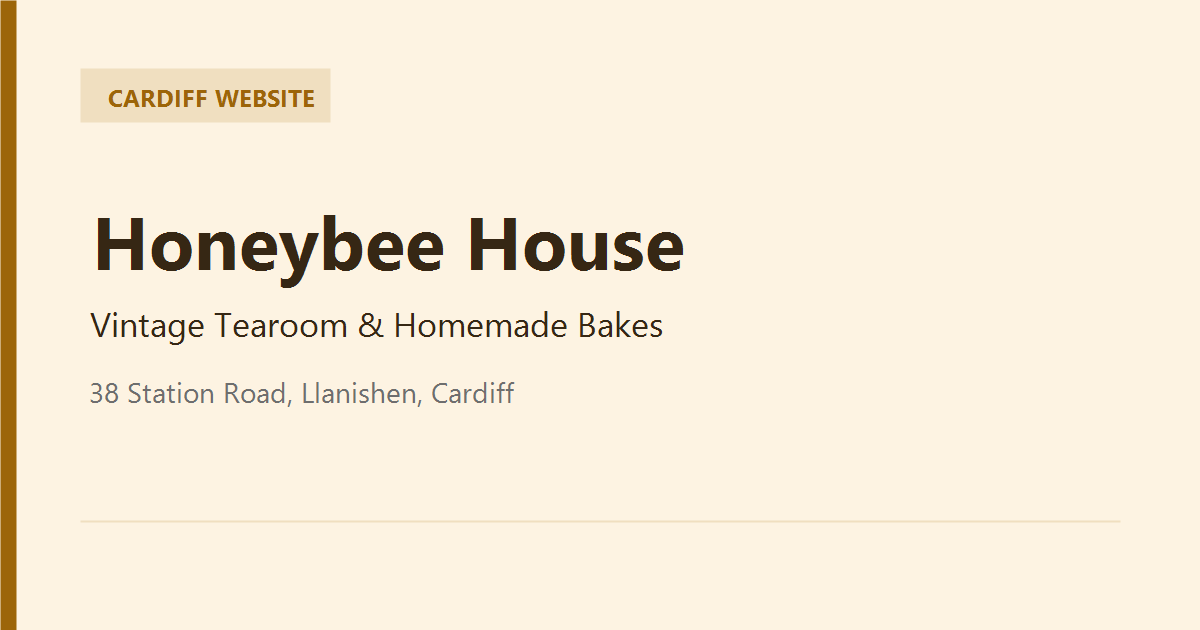
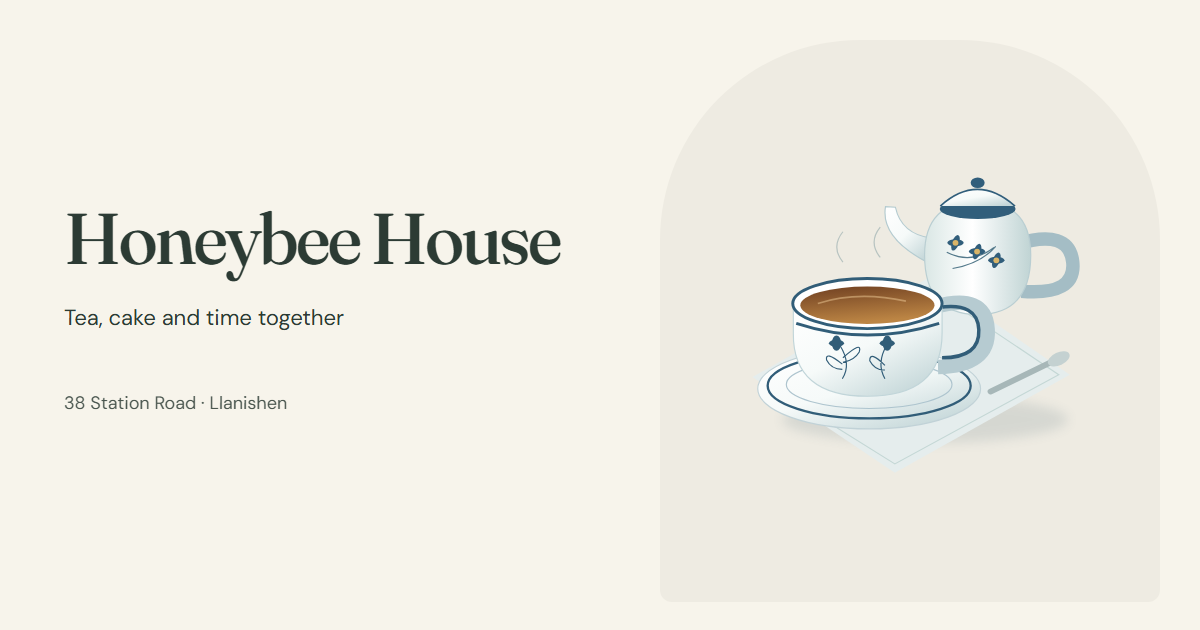
Refresh social preview and align brand palette
- Regenerate og-image.png at 1200x630 from updated share-source.html
- Replace stale card copy/palette with current verified site copy
- Align favicon, theme-color and manifest colours with the site
- Extend smoke test to 17 checks for preview/theme consistency
- Update README, DESIGN and QA with the refresh evidence

diff --git a/assets/share-source.html b/assets/share-source.html
@@ -1,1 +1,1 @@
-<!doctype html><html lang="en-GB"><head><meta charset="utf-8"><meta name="viewport" content="width=device-width,initial-scale=1"><meta name="robots" content="noindex,nofollow"><title>Honeybee House share image source</title><style>@font-face{font-family:DM;src:url(dm-sans.woff2);font-display:swap}@font-face{font-family:Fraunces;src:url(fraunces.woff2);font-display:swap}*{box-sizing:border-box}html,body{margin:0;width:1200px;height:630px;overflow:hidden}body{background:#f9fcf9;color:#294f54;font:400 22px/1.5 DM,system-ui,sans-serif;display:grid;grid-template-columns:660px 540px}.copy{padding:84px 64px;display:flex;flex-direction:column;justify-content:center}h1{font:500 72px/1.05 Fraunces,Georgia,serif;letter-spacing:-.04em;margin:0 0 24px}p{margin:0 0 24px}.address{font-size:18px;opacity:.85;margin-top:32px}aside{background:#eaf2f0;display:grid;place-items:center;padding:56px 40px;margin:40px 40px 40px 0;border-radius:200px 200px 12px 12px}svg{display:block;max-width:100%;width:auto;height:450px}</style></head><body><div class="copy"><h1>Honeybee House</h1><p>Tea, cake and time together</p><p class="address">38 Station Road · Llanishen</p></div><aside><svg viewBox="0 0 720 620" role="img" aria-label="Original illustration of a porcelain tea setting with a blue floral cup and teapot"><defs><linearGradient id="china" x1="0" y1="0" x2=".8" y2="1"><stop stop-color="#fff"/><stop offset=".52" stop-color="#f6faf9"/><stop offset="1" stop-color="#c3d6d8"/></linearGradient><linearGradient id="tea-surface" x2=".3" y2="1"><stop stop-color="#6f3f21"/><stop offset="1" stop-color="#bc8544"/></linearGradient><linearGradient id="pot-shade"><stop stop-color="#dae7e5"/><stop offset=".45" stop-color="#fff"/><stop offset="1" stop-color="#c0d4d4"/></linearGradient><filter id="soft-shadow" x="-40%" y="-60%" width="180%" height="240%"><feGaussianBlur stdDeviation="10"/></filter></defs><ellipse cx="386" cy="479" rx="245" ry="40" fill="#2b4e5e" opacity=".12" filter="url(#soft-shadow)"/><path d="M90 406 392 236l242 166-300 168z" fill="#e5eded"/><path d="M105 412 391 252l224 150-281 153z" stroke="#c4d7d5" stroke-width="2" fill="none"/><g transform="translate(365 56)"><path d="M178 122q90-27 96 31t-88 50" fill="none" stroke="#a4bdc5" stroke-width="23"/><path d="M26 154q-82-42-73-96l17 1q10 46 62 53" fill="url(#china)" stroke="#b4cbd0" stroke-width="2"/><path d="M20 141q0-92 91-92t91 92q0 102-91 102T20 141" fill="url(#pot-shade)" stroke="#b9ced2" stroke-width="2"/><ellipse cx="111" cy="62" rx="65" ry="17" fill="#315e7b"/><path d="M47 57q63-57 128 0" fill="url(#china)" stroke="#315e7b" stroke-width="3"/><ellipse cx="111" cy="17" rx="12" ry="9" fill="#315e7b"/><path d="M58 136q42 22 81-8m-71 36q48-8 74-38" stroke="#53798b" stroke-width="2" fill="none"/><g transform="translate(73 120)" fill="#315e7b"><ellipse rx="6" ry="14" transform="rotate(20)"/><ellipse rx="6" ry="14" transform="rotate(90)"/><circle r="5" fill="#d8b468"/></g><g transform="translate(110 135)" fill="#315e7b"><ellipse rx="6" ry="14" transform="rotate(20)"/><ellipse rx="6" ry="14" transform="rotate(90)"/><circle r="5" fill="#d8b468"/></g><g transform="translate(143 150)" fill="#315e7b"><ellipse rx="6" ry="14" transform="rotate(20)"/><ellipse rx="6" ry="14" transform="rotate(90)"/><circle r="5" fill="#d8b468"/></g></g><ellipse cx="290" cy="426" rx="191" ry="69" fill="url(#china)" stroke="#c1d2d7" stroke-width="2"/><ellipse cx="290" cy="421" rx="174" ry="56" fill="none" stroke="#315d78" stroke-width="4"/><ellipse cx="290" cy="419" rx="142" ry="41" fill="none" stroke="#adc4ce" stroke-width="2"/><path d="M402 286q87-25 91 38t-85 65" stroke="#b6cbd1" stroke-width="25" fill="none"/><path d="M409 287q67-10 69 38t-63 48" stroke="#315d78" stroke-width="6" fill="none"/><path d="M160 279h255v52q0 108-128 108T160 331z" fill="url(#china)" stroke="#c1d5d9" stroke-width="2"/><path d="M165 314q122 40 245 0" stroke="#315d78" stroke-width="5" fill="none"/><ellipse cx="287" cy="280" rx="128" ry="43" fill="#fff" stroke="#315d78" stroke-width="5"/><ellipse cx="287" cy="283" rx="115" ry="32" fill="url(#tea-surface)"/><path d="M202 280q68-22 151-4" stroke="#edc996" stroke-width="3" opacity=".5" fill="none"/><g stroke="#315d78" fill="none" stroke-width="2"><path d="M240 352q20 32 4 57m0-25q-30-24-27-7 8 16 27 16m1-20q34-30 28-10-8 14-28 18M320 352q-18 30-3 57m0-23q-26-26-26-8 9 17 26 16"/></g><g fill="#315d78"><ellipse cx="234" cy="348" rx="8" ry="13"/><ellipse cx="234" cy="348" rx="13" ry="6"/><ellipse cx="321" cy="348" rx="8" ry="13"/><ellipse cx="321" cy="348" rx="13" ry="6"/></g><path d="M498 431 609 377" stroke="#a7b7b8" stroke-width="10" stroke-linecap="round"/><ellipse cx="615" cy="375" rx="20" ry="11" fill="#c4d1d1" transform="rotate(-25 615 375)"/><path d="M245 209q-21-26 0-52m64 44q-21-26 0-52" stroke="#809b9f" stroke-width="2" opacity=".5" fill="none"/></svg></aside></body></html>
+<!doctype html><html lang="en-GB"><head><meta charset="utf-8"><meta name="viewport" content="width=device-width,initial-scale=1"><meta name="robots" content="noindex,nofollow"><title>Honeybee House share image source</title><style>@font-face{font-family:DM;src:url(dm-sans.woff2);font-display:swap}@font-face{font-family:Fraunces;src:url(fraunces.woff2);font-display:swap}*{box-sizing:border-box}html,body{margin:0;width:1200px;height:630px;overflow:hidden}body{background:#f7f4eb;color:#2c3b34;font:400 22px/1.5 DM,system-ui,sans-serif;display:grid;grid-template-columns:660px 540px}.copy{padding:84px 64px;display:flex;flex-direction:column;justify-content:center}h1{font:500 72px/1.05 Fraunces,Georgia,serif;letter-spacing:-.04em;margin:0 0 24px}p{margin:0 0 24px}.address{font-size:18px;opacity:.85;margin-top:32px}aside{background:#eeebe2;display:grid;place-items:center;padding:56px 40px;margin:40px 40px 40px 0;border-radius:200px 200px 12px 12px}svg{display:block;max-width:100%;width:auto;height:450px}</style></head><body><div class="copy"><h1>Honeybee House</h1><p>Tea, cake and time together</p><p class="address">38 Station Road · Llanishen</p></div><aside><svg viewBox="0 0 720 620" role="img" aria-label="Original illustration of a porcelain tea setting with a blue floral cup and teapot"><defs><linearGradient id="china" x1="0" y1="0" x2=".8" y2="1"><stop stop-color="#fff"/><stop offset=".52" stop-color="#f6faf9"/><stop offset="1" stop-color="#c3d6d8"/></linearGradient><linearGradient id="tea-surface" x2=".3" y2="1"><stop stop-color="#6f3f21"/><stop offset="1" stop-color="#bc8544"/></linearGradient><linearGradient id="pot-shade"><stop stop-color="#dae7e5"/><stop offset=".45" stop-color="#fff"/><stop offset="1" stop-color="#c0d4d4"/></linearGradient><filter id="soft-shadow" x="-40%" y="-60%" width="180%" height="240%"><feGaussianBlur stdDeviation="10"/></filter></defs><ellipse cx="386" cy="479" rx="245" ry="40" fill="#2b4e5e" opacity=".12" filter="url(#soft-shadow)"/><path d="M90 406 392 236l242 166-300 168z" fill="#e5eded"/><path d="M105 412 391 252l224 150-281 153z" stroke="#c4d7d5" stroke-width="2" fill="none"/><g transform="translate(365 56)"><path d="M178 122q90-27 96 31t-88 50" fill="none" stroke="#a4bdc5" stroke-width="23"/><path d="M26 154q-82-42-73-96l17 1q10 46 62 53" fill="url(#china)" stroke="#b4cbd0" stroke-width="2"/><path d="M20 141q0-92 91-92t91 92q0 102-91 102T20 141" fill="url(#pot-shade)" stroke="#b9ced2" stroke-width="2"/><ellipse cx="111" cy="62" rx="65" ry="17" fill="#315e7b"/><path d="M47 57q63-57 128 0" fill="url(#china)" stroke="#315e7b" stroke-width="3"/><ellipse cx="111" cy="17" rx="12" ry="9" fill="#315e7b"/><path d="M58 136q42 22 81-8m-71 36q48-8 74-38" stroke="#53798b" stroke-width="2" fill="none"/><g transform="translate(73 120)" fill="#315e7b"><ellipse rx="6" ry="14" transform="rotate(20)"/><ellipse rx="6" ry="14" transform="rotate(90)"/><circle r="5" fill="#d8b468"/></g><g transform="translate(110 135)" fill="#315e7b"><ellipse rx="6" ry="14" transform="rotate(20)"/><ellipse rx="6" ry="14" transform="rotate(90)"/><circle r="5" fill="#d8b468"/></g><g transform="translate(143 150)" fill="#315e7b"><ellipse rx="6" ry="14" transform="rotate(20)"/><ellipse rx="6" ry="14" transform="rotate(90)"/><circle r="5" fill="#d8b468"/></g></g><ellipse cx="290" cy="426" rx="191" ry="69" fill="url(#china)" stroke="#c1d2d7" stroke-width="2"/><ellipse cx="290" cy="421" rx="174" ry="56" fill="none" stroke="#315d78" stroke-width="4"/><ellipse cx="290" cy="419" rx="142" ry="41" fill="none" stroke="#adc4ce" stroke-width="2"/><path d="M402 286q87-25 91 38t-85 65" stroke="#b6cbd1" stroke-width="25" fill="none"/><path d="M409 287q67-10 69 38t-63 48" stroke="#315d78" stroke-width="6" fill="none"/><path d="M160 279h255v52q0 108-128 108T160 331z" fill="url(#china)" stroke="#c1d5d9" stroke-width="2"/><path d="M165 314q122 40 245 0" stroke="#315d78" stroke-width="5" fill="none"/><ellipse cx="287" cy="280" rx="128" ry="43" fill="#fff" stroke="#315d78" stroke-width="5"/><ellipse cx="287" cy="283" rx="115" ry="32" fill="url(#tea-surface)"/><path d="M202 280q68-22 151-4" stroke="#edc996" stroke-width="3" opacity=".5" fill="none"/><g stroke="#315d78" fill="none" stroke-width="2"><path d="M240 352q20 32 4 57m0-25q-30-24-27-7 8 16 27 16m1-20q34-30 28-10-8 14-28 18M320 352q-18 30-3 57m0-23q-26-26-26-8 9 17 26 16"/></g><g fill="#315d78"><ellipse cx="234" cy="348" rx="8" ry="13"/><ellipse cx="234" cy="348" rx="13" ry="6"/><ellipse cx="321" cy="348" rx="8" ry="13"/><ellipse cx="321" cy="348" rx="13" ry="6"/></g><path d="M498 431 609 377" stroke="#a7b7b8" stroke-width="10" stroke-linecap="round"/><ellipse cx="615" cy="375" rx="20" ry="11" fill="#c4d1d1" transform="rotate(-25 615 375)"/><path d="M245 209q-21-26 0-52m64 44q-21-26 0-52" stroke="#809b9f" stroke-width="2" opacity=".5" fill="none"/></svg></aside></body></html>

diff --git a/index.html b/index.html
@@ -7,7 +7,7 @@
 <title>Honeybee House Tearoom — Afternoon Tea in Llanishen, Cardiff</title>
 <meta name="description" content="A family-run mother-and-daughter tearoom at 38 Station Road, Llanishen, Cardiff CF14 5LT. Breakfasts, lunches, homemade cakes and afternoon tea. Open Wednesday to Saturday, 09:15–16:15. Book on 029 2075 5380.">
 <link rel="canonical" href="https://henrygoldsmith07-wq.github.io/honeybee-house-tearoom/">
-<meta name="theme-color" content="#fdf8ec">
+<meta name="theme-color" content="#f7f4eb">
 <link rel="icon" href="favicon.svg" type="image/svg+xml">
 <link rel="manifest" href="site.webmanifest">
 

diff --git a/README.md b/README.md
@@ -32,3 +32,6 @@ Local static server, desktop emulation: Accessibility 100, Best Practices 100, S
 
 ## Launch preparation — 16 November 2026 (Henry approved)
 Henry approved removing the pre-launch blocking and the unused source modules. The homepage `noindex` meta is gone; `robots.txt` now allows all crawlers and declares `sitemap.xml`; the sitemap URL matches the canonical URL. The canonical, Open Graph, Twitter and JSON-LD URLs remain the GitHub Pages deployment URL `https://henrygoldsmith07-wq.github.io/honeybee-house-tearoom/` — if Henry moves to a custom domain, those URLs must be changed together. The not-found page keeps its own `noindex`, which is normal for error pages. The unreferenced `direction.css`, `visit-collection.css` and `visit-collection.js` source modules were deleted. `node tests/smoke.mjs` now passes 16/16 including launch-indexing and module-removal checks. Contact details, hours and accessibility still need owner confirmation; no deployment or publication was performed.
+
+## Social preview refresh — 16 November 2026
+The old `og-image.png` carried stale copy ("CARDIFF WEBSITE", "Vintage Tearoom & Homemade Bakes") and an old palette. Its source page `assets/share-source.html` was updated to the current cream/green palette, then the PNG was regenerated from that source with headless Chrome at exactly 1200×630 (78 KB). The favicon and web manifest now use the same palette, and the manifest declares theme/background colours matching the page meta. `node tests/smoke.mjs` passes 17/17 with a new social-preview/theme check.

diff --git a/QA-2026-11-16.md b/QA-2026-11-16.md
@@ -28,3 +28,6 @@ Validation edge cases exercised in the browser: past date, date beyond 120 days,
 
 ## Launch preparation — 16 November 2026 (approved)
 Removed the homepage `noindex` meta and replaced `robots.txt` `Disallow: /` with `Allow: /` plus a `Sitemap:` line pointing to the same URL as the canonical link. The 404 page retains its own `noindex`. Deleted the three unreferenced source modules (`direction.css`, `visit-collection.css`, `visit-collection.js`) after confirming zero references in HTML, CSS, JS or tests. `node tests/smoke.mjs` passes 16/16 with new assertions for homepage indexability, sitemap/canonical consistency and module removal. Not run: formal WCAG certification, Safari/Firefox, true 375px emulation, live phone, owner sign-off or payments. No deployment or publication performed. £0 spent.
+
+## Social preview verification — 16 November 2026
+Viewed the regenerated `og-image.png`: 1200×630, 78 KB, current cream background, green serif heading, "Tea, cake and time together" and "38 Station Road · Llanishen"; no stale "CARDIFF WEBSITE" badge or "Vintage Tearoom" tagline. Favicon and manifest use the same palette; manifest theme/background match the page meta `#f7f4eb`. `node tests/smoke.mjs` passes 17/17 with the new consistency check. Not run: Lighthouse after this visual-only change, formal WCAG, Safari/Firefox, live phone, owner sign-off or payments. £0 spent.

diff --git a/DESIGN.md b/DESIGN.md
@@ -60,3 +60,6 @@ Lighthouse on the real page found four issues, fixed here: the `aria-label` on a
 
 ## Launch preparation — 16 November 2026
 With Henry's approval, the pre-launch search block was removed from the homepage and `robots.txt` now allows crawling and declares the sitemap. The canonical/social/JSON-LD URLs were left at the GitHub Pages deployment address because that is the real hosting target; a future custom domain would require updating all of them together. The 404 page keeps `noindex` as an error page should. The three unreferenced source modules — `direction.css`, `visit-collection.css` and `visit-collection.js` — were deleted by approval, reducing the repo by roughly 22 KB of dead source. Earlier notes describing them as retained are superseded by this decision.
+
+## Social preview refresh — 16 November 2026
+The shipped social card still showed an older identity ("CARDIFF WEBSITE", "Vintage Tearoom & Homemade Bakes") on a cream/gold palette. `assets/share-source.html` was changed to the current verified copy ("Honeybee House", "Tea, cake and time together", "38 Station Road · Llanishen") and the site's cream/green tokens, then rendered to `og-image.png` at 1200×630 with headless Chrome. Favicon and manifest colours were aligned with the page meta. No new business claims were introduced; all copy already appears on the site.
